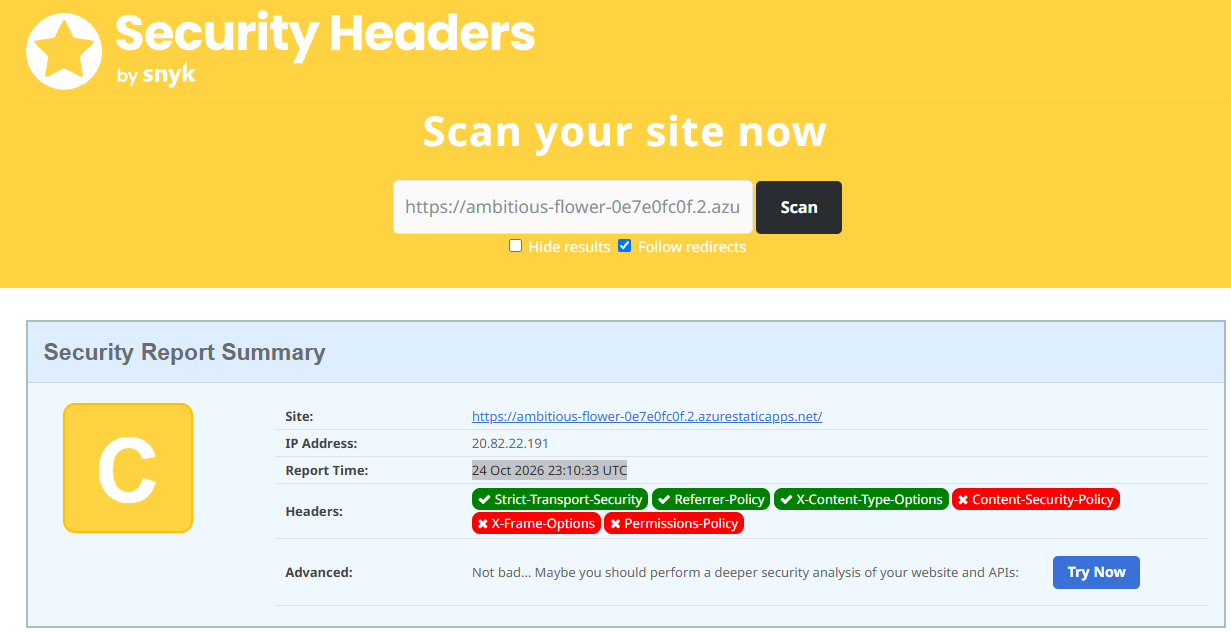
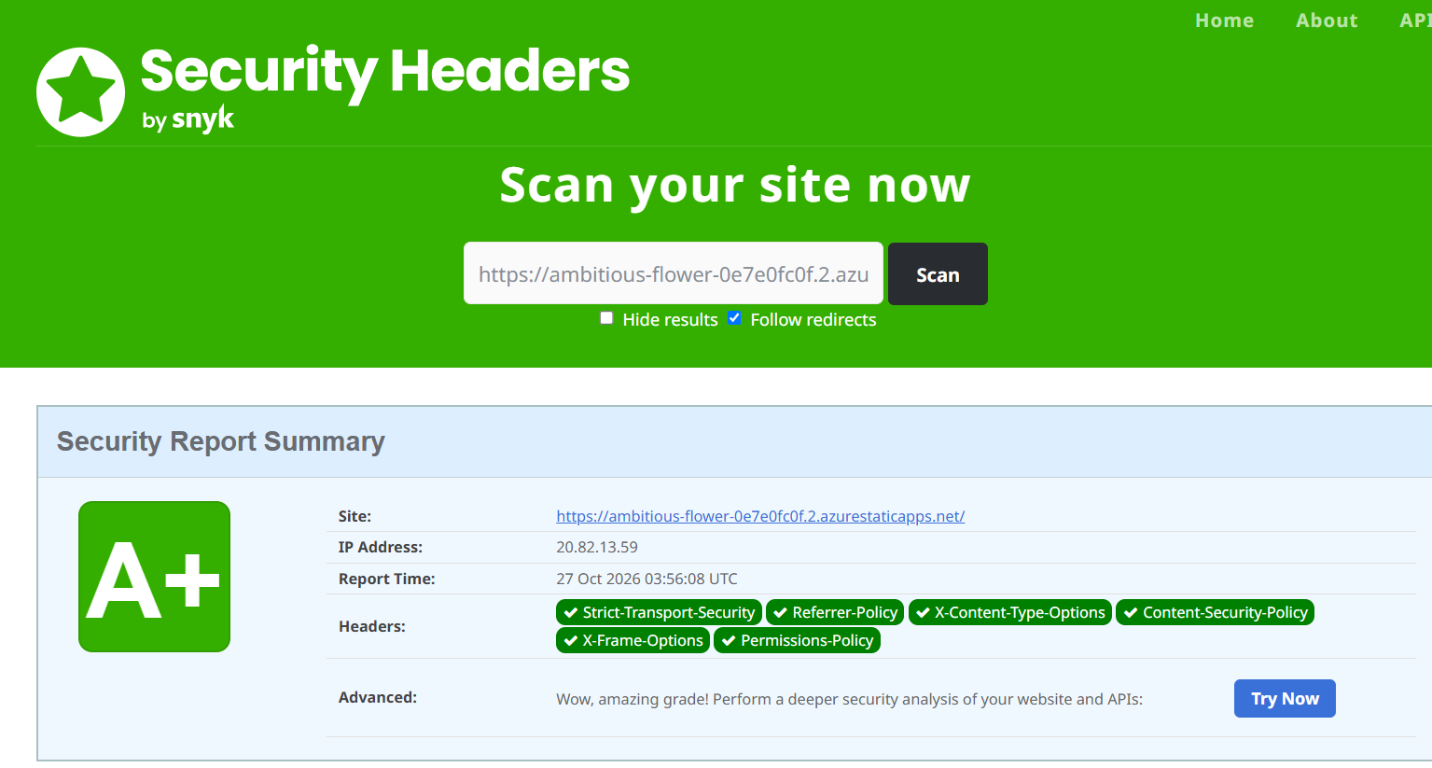
actualizacion de despligue.md

diff --git a/Despliegue.md b/Despliegue.md
@@ -1,81 +1,118 @@
-# Despliegue de PokeDex en Azure Static Web Apps
+# Despliegue de Pokédex en Azure
 
-## Cuenta de Azure for Students
+En esta guía dejo los pasos que seguí para publicar la aplicación en Azure Static Web Apps. El despliegue queda conectado con GitHub, así que Azure vuelve a compilar y publicar la página cuando hay cambios en la rama `main`.
 
-1. Visita [Azure for Students](https://azure.microsoft.com/free/students/) e inicia sesión o solicita la activación de la oferta para estudiantes.
-2. Completa la validación institucional que solicite Microsoft y activa la suscripción.
-3. Accede al [portal de Azure](https://portal.azure.com/) y verifica que la suscripción esté disponible.
-4. Antes de crear recursos, revisa la directiva **Allowed resource deployment regions**. En esta suscripción se mostraron como permitidas `mexicocentral`, `canadacentral`, `eastus2`, `brazilsouth` y `northcentralus`; selecciona una región permitida que también ofrezca Static Web Apps.
-5. No guardes contraseñas, tokens ni claves de despliegue en el repositorio.
+## 1. Antes de empezar
 
-> Completa o ajusta estos pasos para que describan exactamente cómo activaste tu cuenta y qué región seleccionaste.
+- Tener acceso a una cuenta de [Azure for Students](https://azure.microsoft.com/free/students/).
+- Tener el proyecto en GitHub. En este caso usé la organización `7axelamg` y el repositorio `pokedex`.
+- Revisar en el portal de Azure qué regiones permite la suscripción. En mi caso, el recurso quedó en **East US 2**.
 
-## Crear la aplicación
+Para activar la cuenta de estudiante, inicié sesión en Azure, completé la verificación que me solicitó Microsoft y confirmé en el [portal de Azure](https://portal.azure.com/) que apareciera la suscripción **Azure for Students**. La activación y la elegibilidad dependen de los requisitos vigentes de Microsoft.
 
-1. En el portal de Azure, selecciona **Create a resource** y busca **Static Web Apps**.
-2. Selecciona la suscripción y el grupo de recursos que usarás.
-3. Asigna un nombre al recurso, selecciona un plan adecuado para el proyecto académico y elige una región disponible y permitida por la política de la suscripción.
-4. En **Deployment details**, selecciona **GitHub**, autoriza la conexión y elige la organización `7axelamg`, el repositorio `pokedex` y la rama `main`.
-5. Configura el build:
-   - **Build preset:** Angular
-   - **App location:** `/`
-   - **API location:** vacío
-   - **Output location:** `dist/pokedex-angular`
-6. Revisa el workflow de GitHub Actions que propone Azure y crea el recurso.
-7. En GitHub, abre **Actions** y verifica que el flujo de compilación y despliegue termine correctamente.
-8. La aplicación publicada está en <https://ambitious-flower-0e7e0fc0f.2.azurestaticapps.net/>.
+## 2. Crear la Static Web App
 
-## Configuración de rutas y encabezados
+1. En el portal de Azure, busqué **Static Web Apps** y seleccioné **Create**.
+2. En los detalles del proyecto, elegí la suscripción **Azure for Students**, el grupo de recursos `pokede_group` y escribí `pokedex` como nombre de la aplicación.
+3. Dejé la región de alojamiento de Static Web Apps como global, tal como la muestra Azure. La aplicación usa el plan **Free**, suficiente para este proyecto.
 
-El archivo `src/staticwebapp.config.json` contiene los encabezados HTTP y las reglas de navegación de Azure Static Web Apps. `angular.json` incluye ese archivo en los assets del build para que Azure lo reciba en la raíz del sitio publicado.
+![Detalles del proyecto en Azure](./01-detalles-proyecto.png)
 
-La ruta de imágenes de producción es `/assets/images`, porque la aplicación se publica desde la raíz del dominio. Azure usa `navigationFallback` para devolver `index.html` al abrir o recargar rutas internas de Angular.
+## 3. Conectar el repositorio de GitHub
+
+1. En **Deployment details**, seleccioné **GitHub** como origen.
+2. Autoricé a Azure para conectarse con GitHub y seleccioné estos datos:
+   - **Organization:** `7axelamg`
+   - **Repository:** `pokedex`
+   - **Branch:** `main`
+3. Si el repositorio no aparece, hay que revisar los permisos de GitHub y dar acceso al repositorio elegido.
+
+![Selección de GitHub, repositorio y rama](./02-configuracion-github.png)
+
+## 4. Indicar cómo se compila Angular
+
+En **Build Details**, Azure detectó Angular. Dejé los campos así:
+
+| Campo | Valor |
+|---|---|
+| **Build preset** | Angular (detected) |
+| **App location** | `/` |
+| **Api location** | Vacío |
+| **Output location** | `dist/pokedex-angular` |
+
+![Configuración de compilación de Angular](./03-configuracion-build.png)
+
+Azure usa estos valores para crear un workflow de GitHub Actions. Revisé la configuración propuesta y luego continué con la creación del recurso.
+
+## 5. Revisar las opciones avanzadas y crear
+
+En la pestaña **Advanced**, elegí **East US 2** para la región de Azure Functions y los entornos de prueba. Dejé desactivada la opción **Enterprise-grade edge**, porque no la necesito para este proyecto.
+
+![Opciones avanzadas](./04-opciones-avanzadas.png)
+
+Por último, revisé los datos en **Review + create** y seleccioné **Create**. Azure tardó unos minutos en preparar el recurso y el workflow.
+
+## 6. Comprobar que quedó publicado
+
+1. En el recurso de Static Web Apps, esperé a que terminara el despliegue.
+2. En GitHub, abrí la pestaña **Actions** del repositorio y comprobé que el workflow terminara sin errores.
+3. Abrí la dirección pública y probé la página principal:
+   <https://ambitious-flower-0e7e0fc0f.2.azurestaticapps.net/>
+4. En la lista de Static Web Apps del portal, confirmé que apareciera `pokedex` con el plan **Free**.
+
+![Aplicación pokedex en la lista de Static Web Apps](./05-listado-aplicaciones.png)
+
+## 7. Configuración de rutas y encabezados
+
+El archivo [src/staticwebapp.config.json](./src/staticwebapp.config.json) configura los encabezados HTTP y las rutas de Azure Static Web Apps. Además, `angular.json` incluye ese archivo en los assets de compilación para que llegue a la raíz del sitio publicado.
+
+La aplicación se sirve desde la raíz del dominio y las imágenes se encuentran en `/assets/images`. La opción `navigationFallback` devuelve `index.html` cuando se abre o se recarga una ruta interna de Angular; así, una dirección de detalle no termina en un 404.
 
 Los encabezados configurados son:
 
-- **Content-Security-Policy (CSP):** limita la carga de scripts, estilos, imágenes, fuentes y conexiones a los orígenes requeridos por la app y PokéAPI.
+- **Content-Security-Policy (CSP):** limita desde dónde se pueden cargar scripts, estilos, imágenes, fuentes y conexiones.
 - **Strict-Transport-Security (HSTS):** indica al navegador que use HTTPS durante el periodo especificado.
-- **X-Content-Type-Options:** evita la interpretación de un archivo con un tipo de contenido diferente al declarado.
+- **X-Content-Type-Options:** evita que el navegador interprete un archivo como un tipo distinto al declarado.
 - **X-Frame-Options:** impide que otro sitio incruste la aplicación en un frame.
 - **Referrer-Policy:** controla qué información de referencia se envía al navegar a otros sitios.
-- **Permissions-Policy:** deshabilita permisos de cámara, micrófono y geolocalización que esta aplicación no necesita.
+- **Permissions-Policy:** deshabilita cámara, micrófono y geolocalización, que la aplicación no necesita.
 
-La política CSP permite estilos inline porque Angular puede insertar estilos de componentes en tiempo de ejecución, pero no permite scripts inline. Si el navegador reporta que se bloquea un recurso legítimo, revisa la consola y ajusta solo la directiva CSP necesaria.
+La CSP permite estilos inline porque Angular puede insertar estilos de componentes durante la ejecución, pero no permite scripts inline. Si se bloquea un recurso que la aplicación necesita, se puede revisar la consola del navegador y ajustar la directiva correspondiente.
 
-## Verificación funcional y de encabezados
+## 8. Probar el sitio y revisar los encabezados
 
-1. Abre la URL pública y comprueba la página principal, el listado y los detalles de Pokémon.
-2. Confirma que las imágenes cargan y que al recargar directamente una ruta de detalle no aparece un 404.
-3. Revisa la consola del navegador por errores de red o violaciones CSP.
-4. Comprueba los encabezados desde PowerShell:
+Después del despliegue, comprobé la página pública, el listado y los detalles de Pokémon. También revisé que cargaran las imágenes y que al recargar directamente una ruta de detalle no apareciera un error 404.
 
-   ```powershell
-   curl.exe -I https://ambitious-flower-0e7e0fc0f.2.azurestaticapps.net/
-   ```
+Para consultar los encabezados desde PowerShell, ejecuté:
 
-   La respuesta debe incluir `Content-Security-Policy`, `Strict-Transport-Security`, `X-Content-Type-Options`, `X-Frame-Options`, `Referrer-Policy` y `Permissions-Policy`.
+```powershell
+curl.exe -I https://ambitious-flower-0e7e0fc0f.2.azurestaticapps.net/
+```
 
-## Análisis con SecurityHeaders.com
+La respuesta debe incluir `Content-Security-Policy`, `Strict-Transport-Security`, `X-Content-Type-Options`, `X-Frame-Options`, `Referrer-Policy` y `Permissions-Policy`.
 
-1. Abre [SecurityHeaders.com](https://securityheaders.com/).
-2. Analiza `https://ambitious-flower-0e7e0fc0f.2.azurestaticapps.net/`.
-3. Revisa las observaciones y corrige los encabezados si hace falta.
-4. Después de que Azure despliegue la configuración, ejecuta el análisis nuevamente y registra el resultado real:
+## 9. Revisar el resultado en SecurityHeaders.com
 
-   - Fecha del análisis: **[24 Oct 2026 23:10:33 UTC]**
-   - Calificación obtenida: **[C]**
-   - Evidencia o enlace al resultado: **[(image.png)]**
+1. Abrí [SecurityHeaders.com](https://securityheaders.com/).
+2. Analicé la dirección pública de la aplicación.
+3. Guardé la captura del resultado para dejar evidencia de la revisión.
 
-## Ejecución local
+En el análisis más reciente, del **27 de octubre de 2026 a las 03:56:08 UTC**, el sitio obtuvo una calificación **A+**. El reporte muestra como presentes los seis encabezados revisados: HSTS, Referrer-Policy, X-Content-Type-Options, Content-Security-Policy, X-Frame-Options y Permissions-Policy.
 
-Desde la carpeta del proyecto:
+![Resultado del análisis de encabezados](./image.png)
+
+La calificación corresponde a la fecha y hora que aparecen en la captura. Puede cambiar si se modifica la configuración o si SecurityHeaders.com actualiza sus criterios.
+
+## Ejecutar el proyecto localmente
+
+Desde la carpeta del proyecto, instalé las dependencias y levanté la aplicación con:
 
 ```powershell
 npm ci
 npm start
 ```
 
-La app normalmente queda disponible en `http://localhost:4200/`. Para compilar la versión de producción:
+Normalmente queda disponible en <http://localhost:4200/>. Para generar una compilación de producción:
 
 ```powershell
 npm run build
